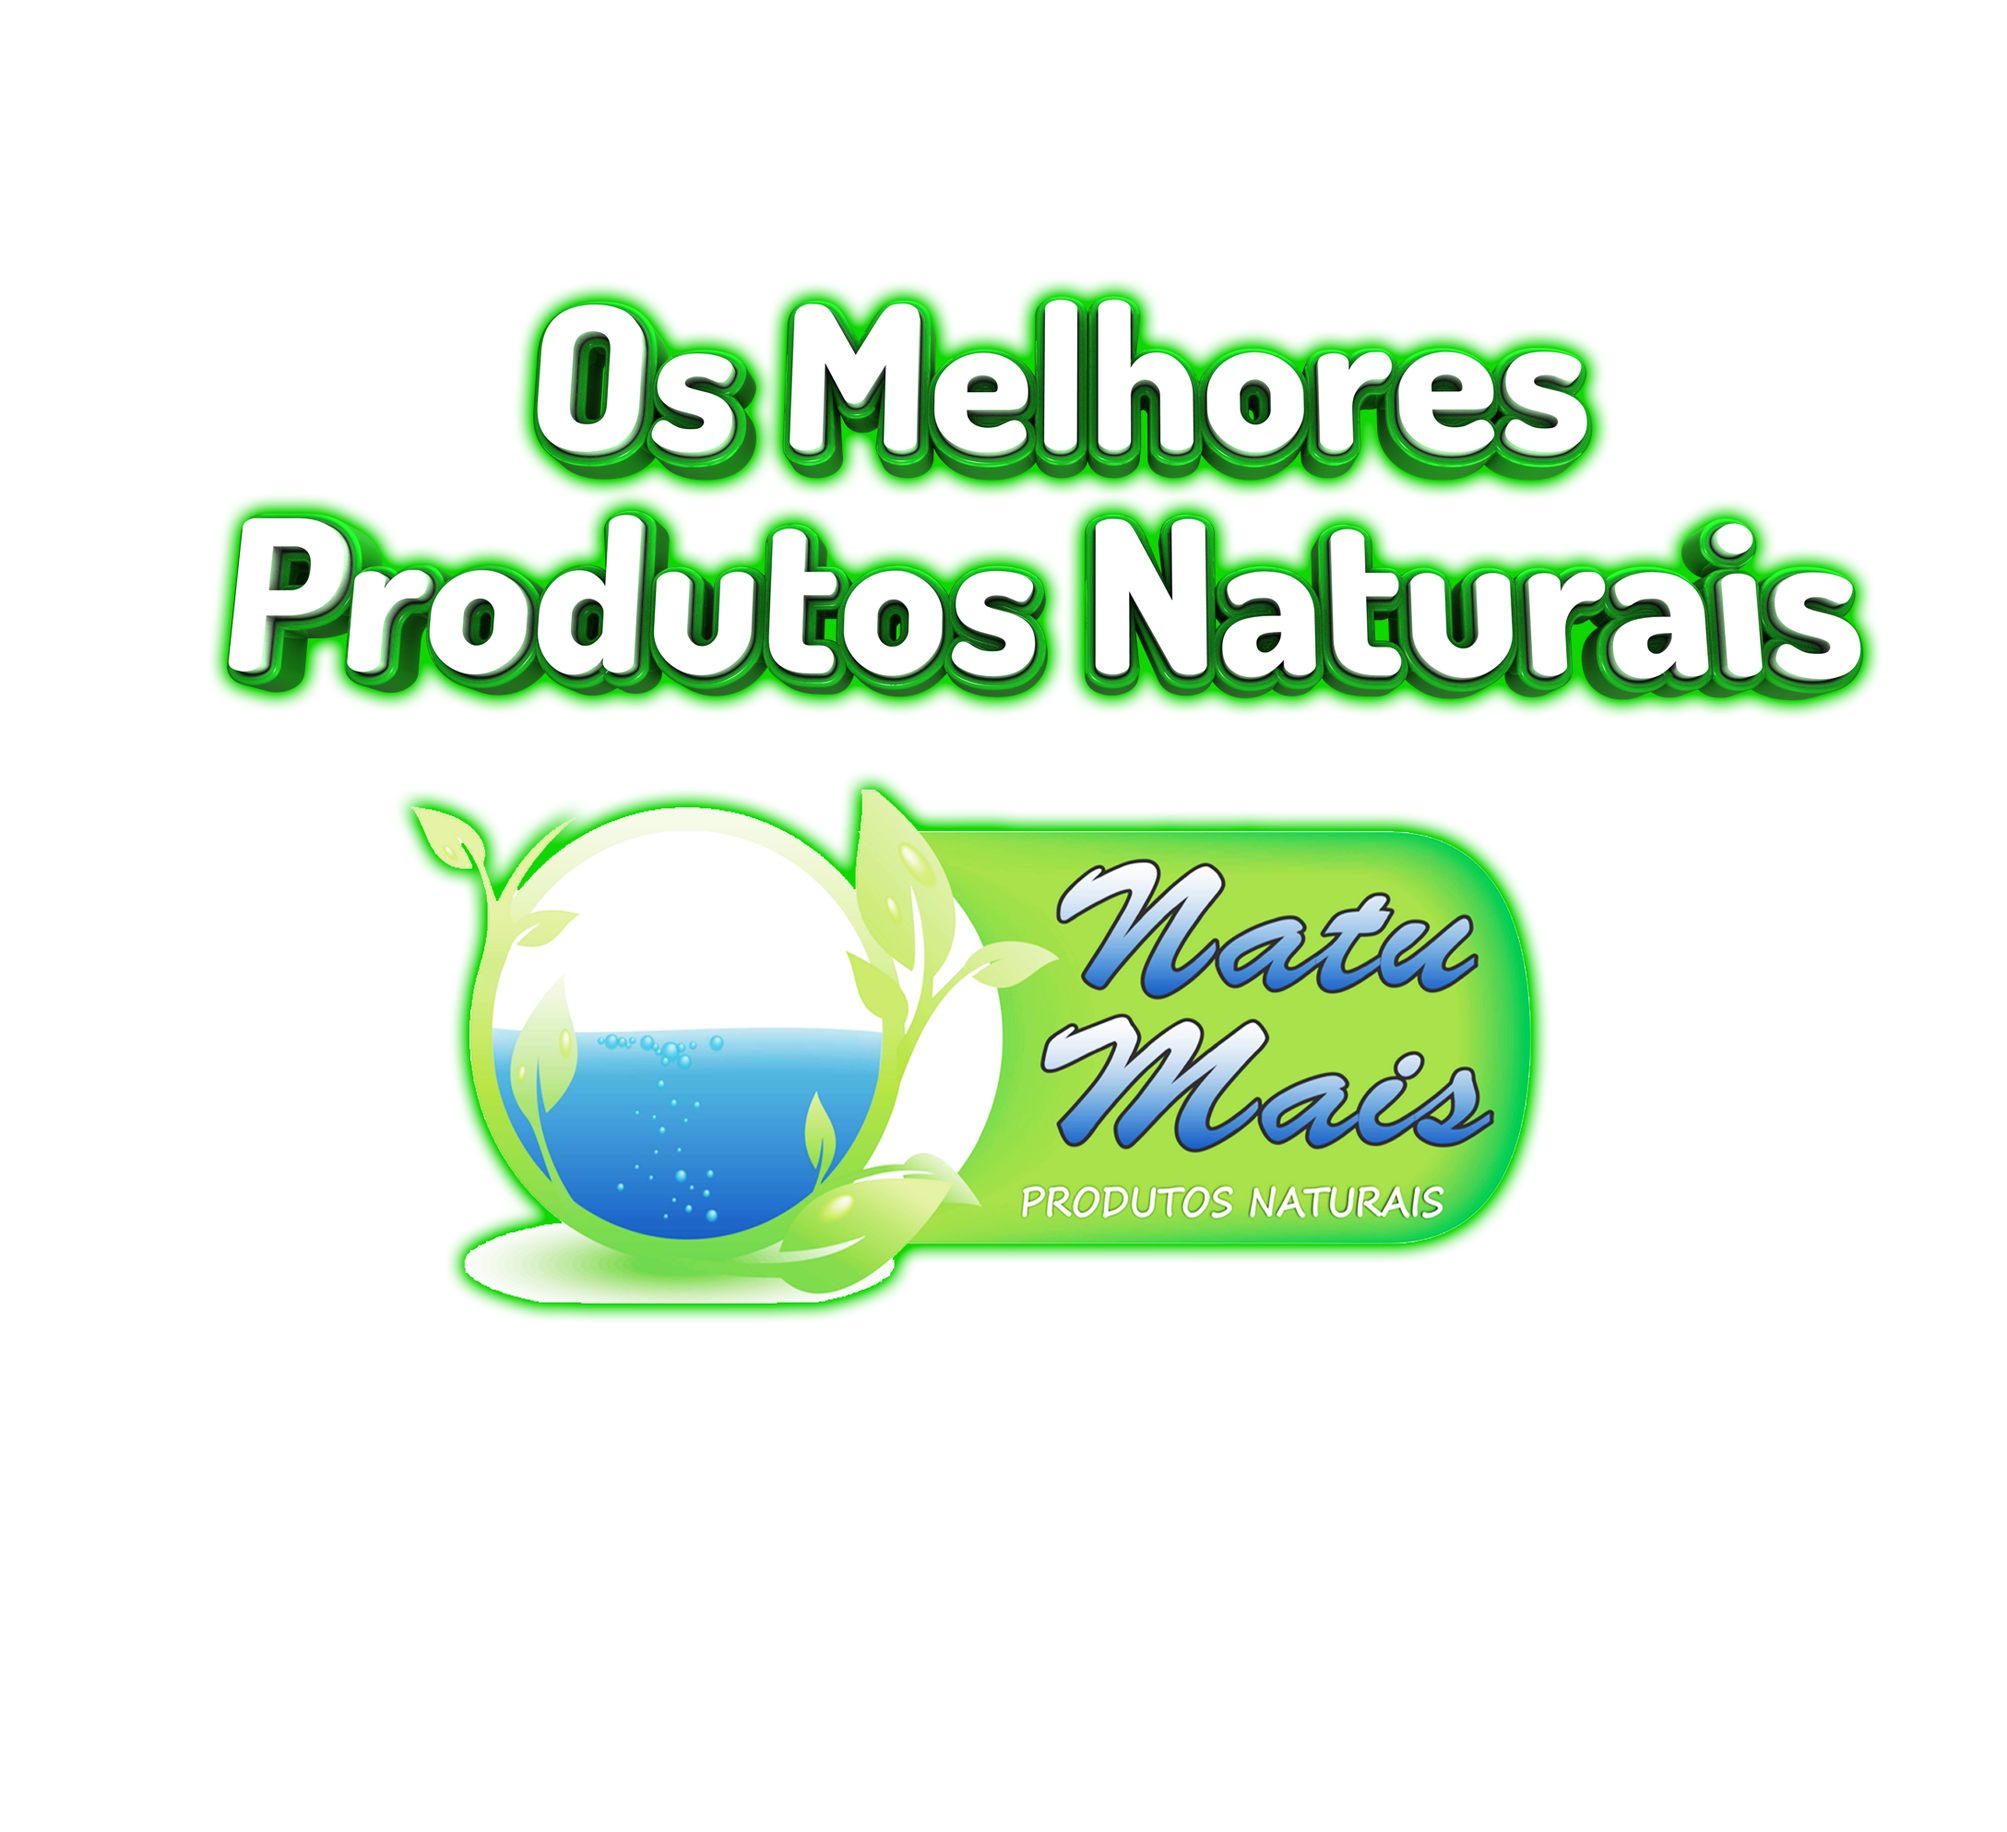
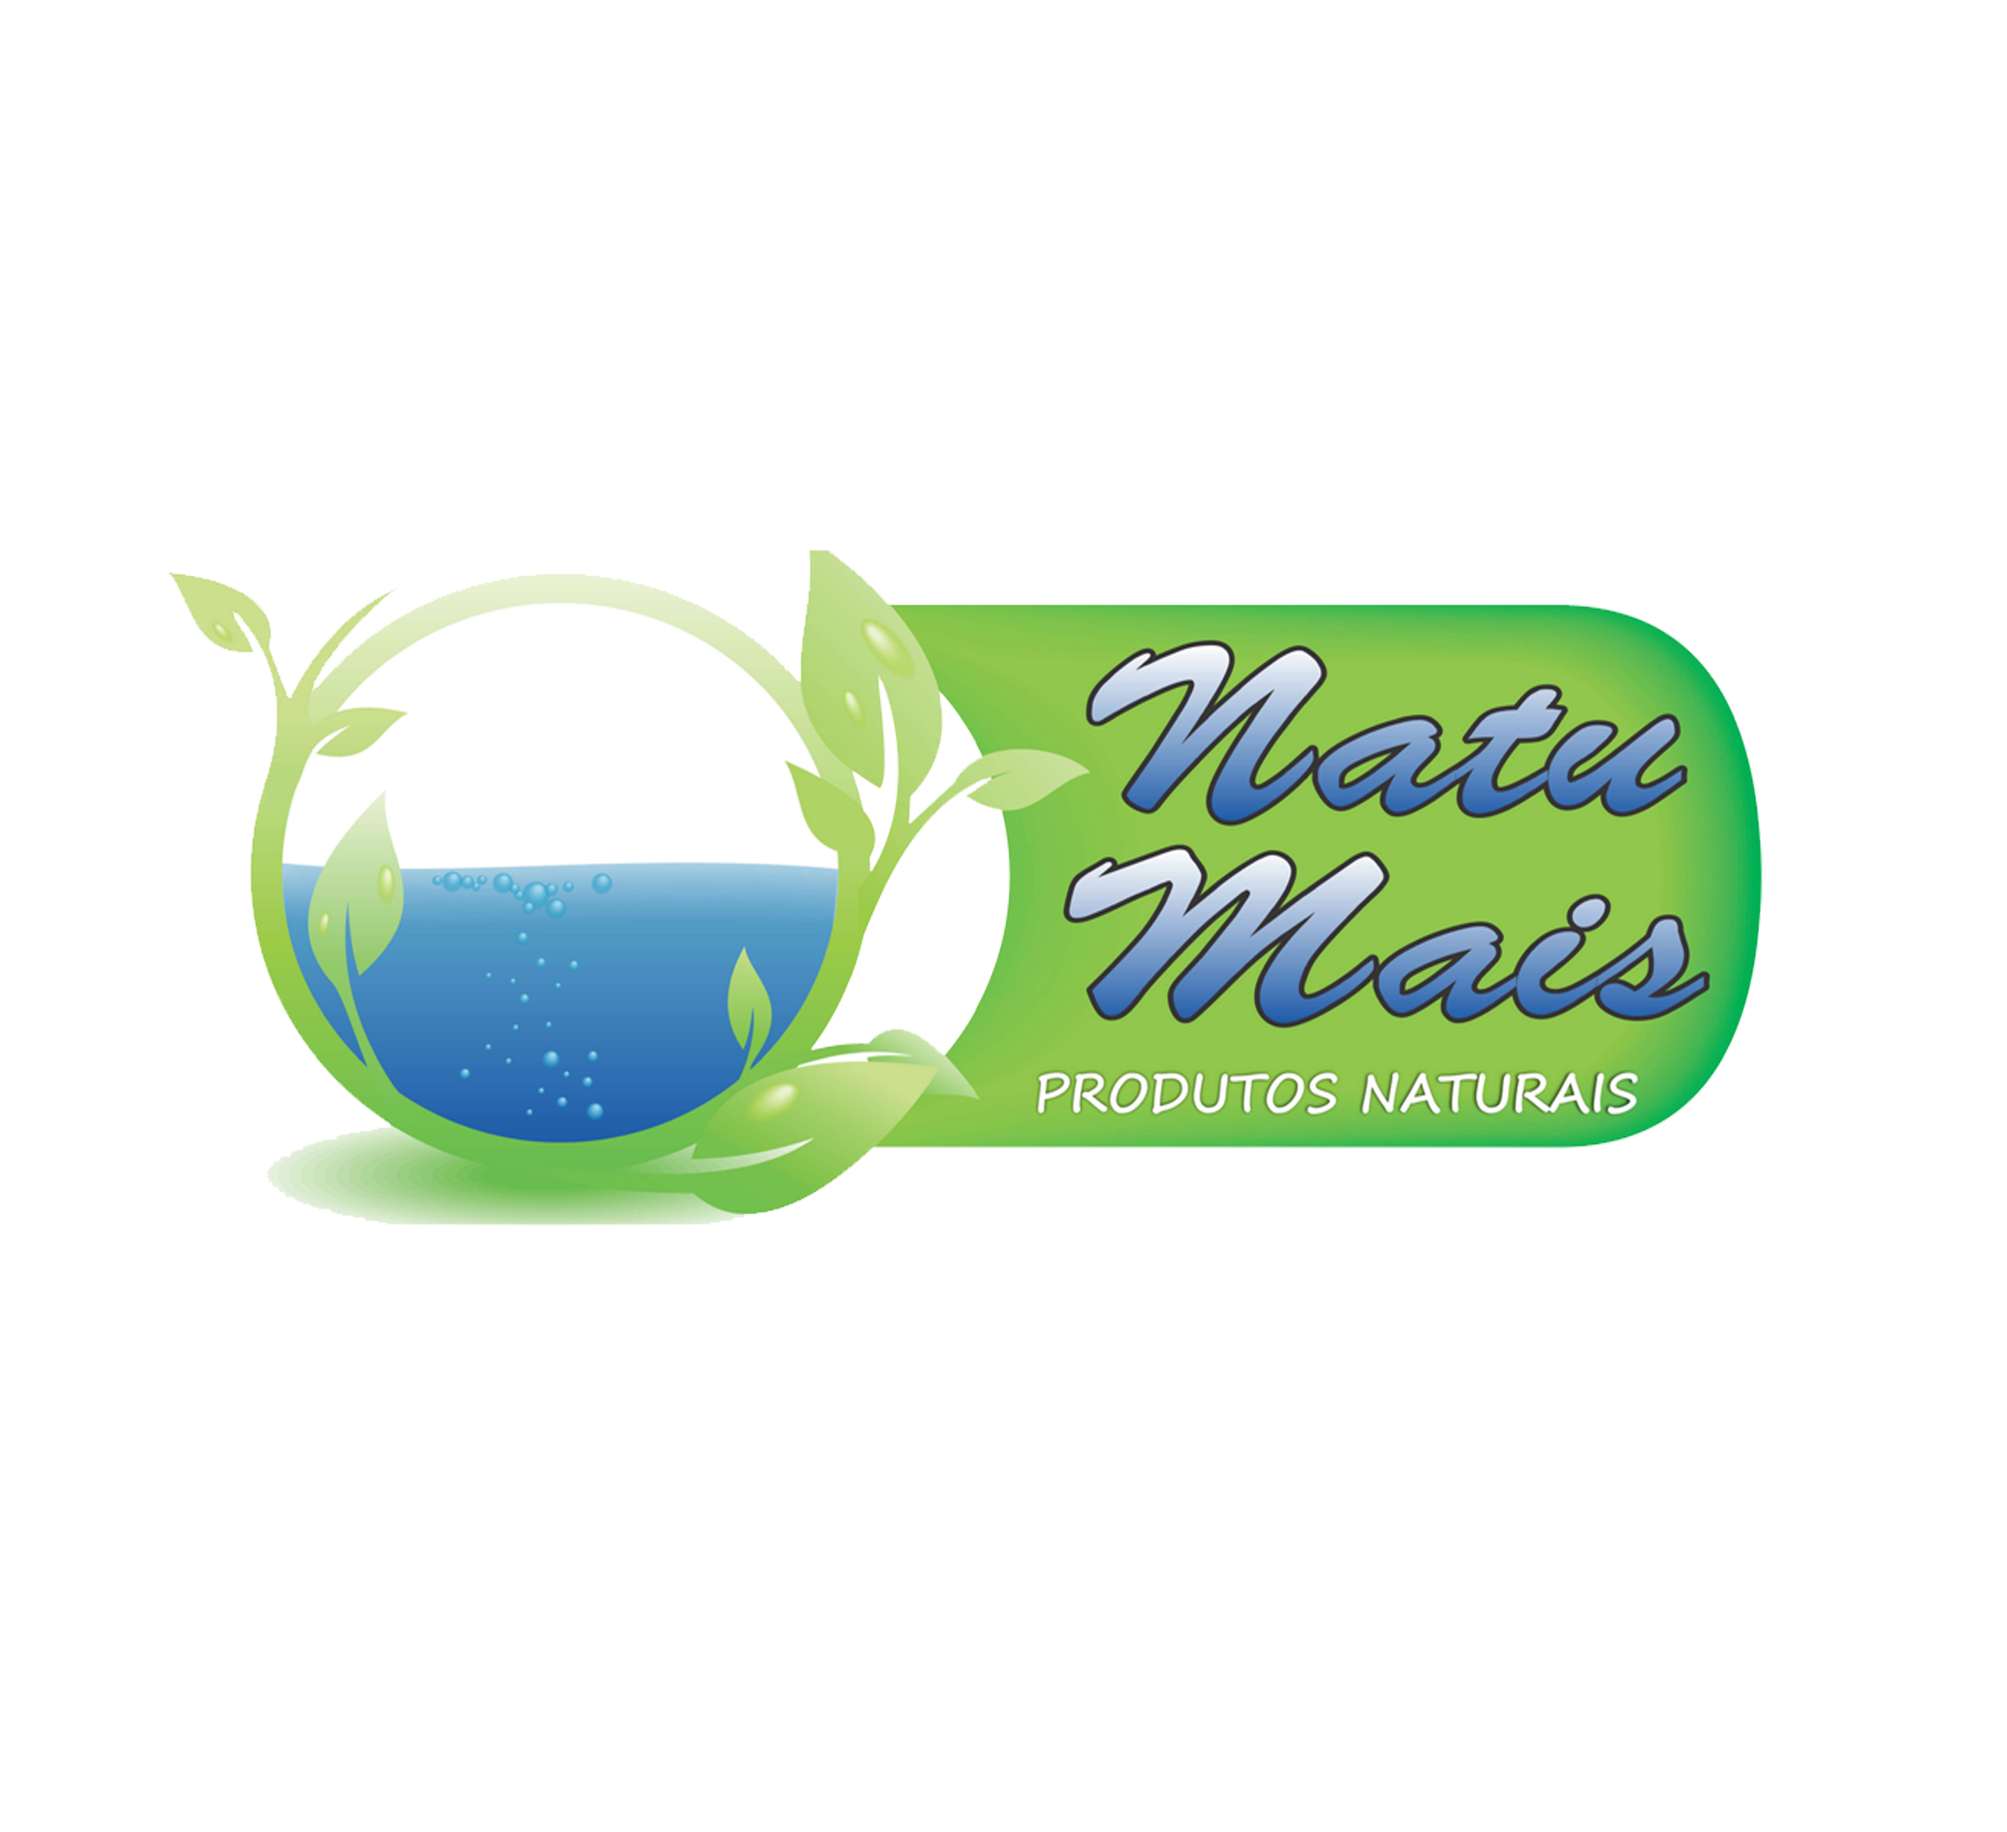
up

Changed region(s): [[0.0938, 0.1561, 0.9375, 0.718]]

diff --git a/index.html b/index.html
@@ -54,10 +54,6 @@
   <main>
     <div id="inicio" class="headerr">
       <br>
-      <h3 style="text-align: center;font-size: 45px;"> NatuMais</h3>
-      <p class="title" style="text-align: center;color: rgb(0, 0, 0); font-size: 25px;">Confira nossos <span
-          class="logo-detail">Novos Produtos!</span>
-      </p>
 
 
       <div class="header-image">
@@ -66,6 +62,11 @@
       </div>
   </main>
   <center>
+
+    <p class="title" style="text-align: center;color: rgb(0, 0, 0); font-size: 25px;">Confira nossos <span
+        class="logo-detail">Novos Produtos!</span>
+    </p>
+
     </br>
     <a style="padding: 10px;" href="#products" class="button-buy"><img style="width: 70px;" src="./static/arrow.webp"
         alt="">Conferir  </a>
@@ -95,7 +96,7 @@
           target="_blank">Ver mais</a><br><br><br>
           -->
       </br>
-      <h3 style="text-align: center;font-size: 30px;"><span class="logo-detail">Confira nossos Catálogos </span></h3>
+      <h3 style="text-align: center;font-size: 30px;"><span class="logo-detail">Catálogos </span></h3>
       <div class="cardhover">
         <div class="card2">
           <div class="img-box">
@@ -114,7 +115,7 @@
         </div>
         <div class="card2">
           <div class="img-box">
-            <img src="static/products-image/natumais/mentos morango.jpg">
+            <img src="static/products-image/natumais/mentos morango.png">
           </div>
           <div class="content2">
             <h2>Doces</h2>

diff --git a/csshover/style.css b/csshover/style.css
@@ -105,7 +105,7 @@
     }
 
     .cardhover {
-        margin-top: 5%;
+        margin-top: 10%;
         display: flex;
         justify-content: space-around;
         flex-wrap: wrap;
